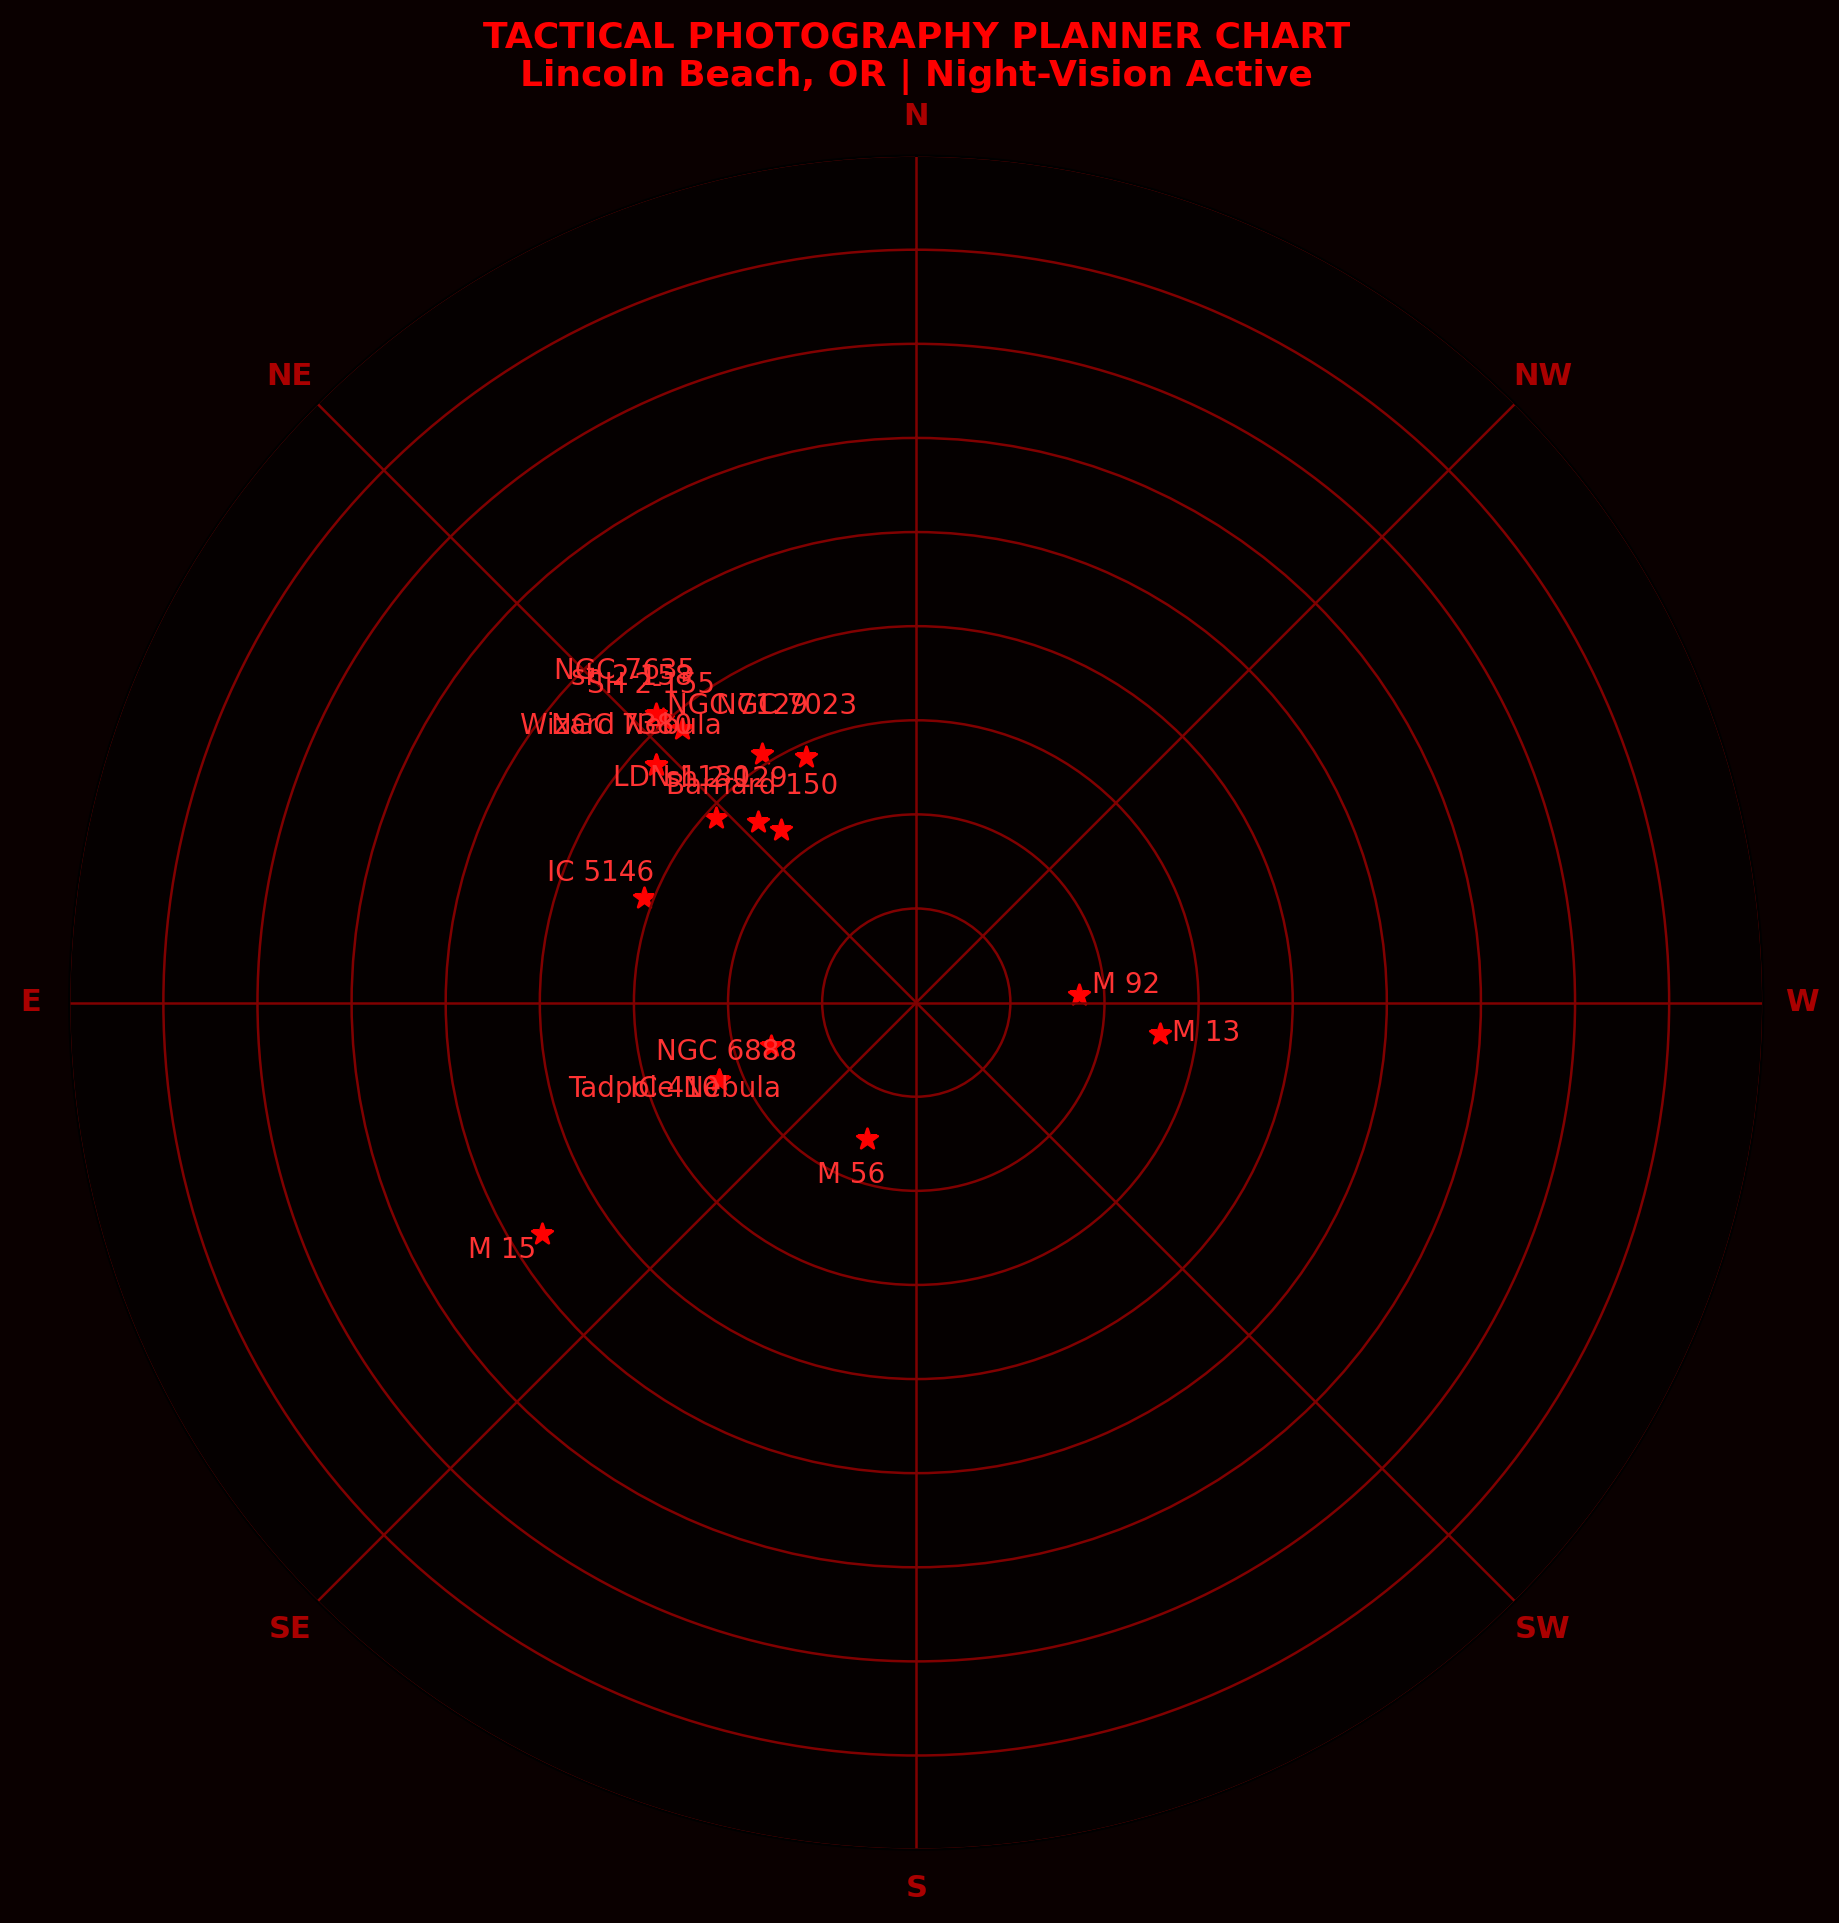
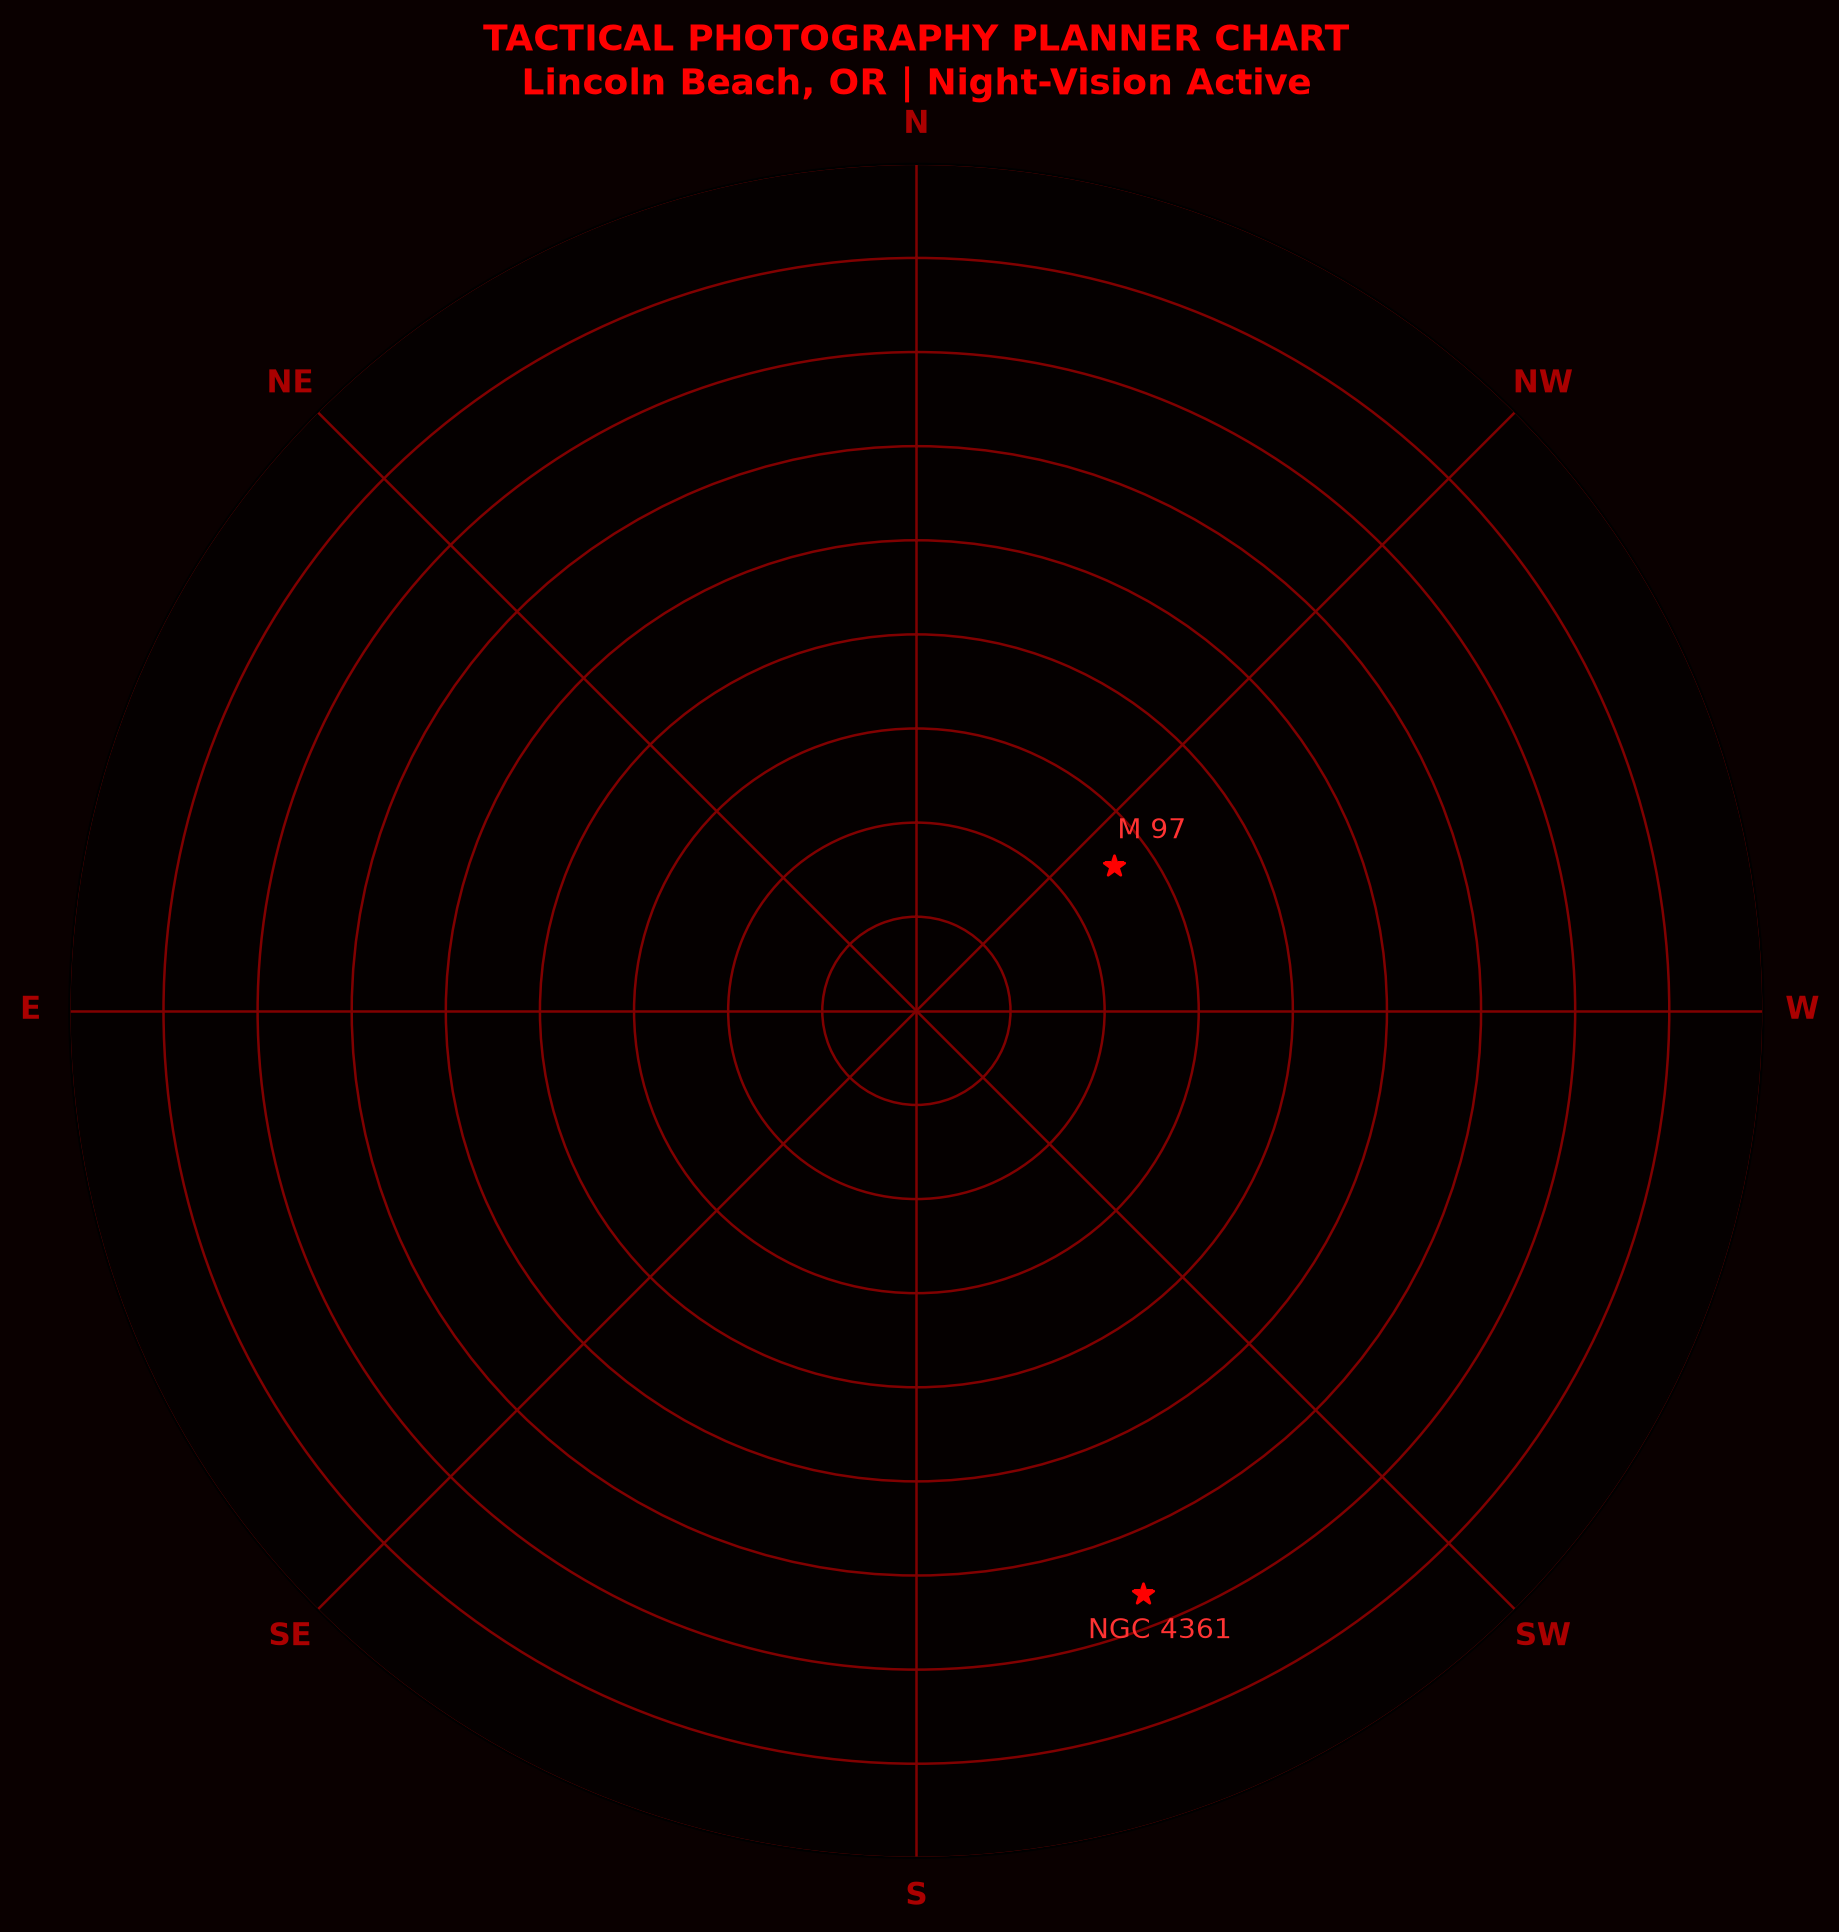
Add files via upload

diff --git a/static/style.css b/static/style.css
@@ -216,27 +216,40 @@ label {
     width: 150px;
     cursor: pointer;
 }
-
+/* 1. Base Modal Background Layout */
 .modal {
-    display: none; /* Hidden by default */
+    display: none;
     position: fixed;
     z-index: 1000;
-    top: 0;
     left: 0;
+    top: 0;
     width: 100%;
     height: 100%;
-    background-color: rgba(0, 0, 0, 0.8); /* Black background with opacity */
+    background-color: rgba(0, 0, 0, 0.9);
     justify-content: center;
     align-items: center;
-    margin: 0;
-    padding: 0;
 }
 
+/* 2. Base Modal Image Sizing Rules (DO NOT DEFINE BORDER COLOR HERE) */
 .modal-content {
-    max-width: 100vw;
-    max-height: 100vh;
-    max-width: none !important;
-    max-height: none !important;
+    width: 100%;
+    height: 100%;
+    max-width: 90vw;
+    max-height: 90vh;
     object-fit: contain;
-    image-rednering: auto;
+    box-sizing: border-box;
+    border-width: 5px;
+    border-style: solid;
+    border-radius: 4px;
+    box-shadow: 0 4px 20px rgba(0,0,0,0.5);
+    /* No border-color here to avoid default locking values */
+}
+
+/* 3. Utility Border Color Modifiers */
+.border-green {
+    border-color: #2ecc71 !important; /* !important guarantees this wins over duplicates */
+}
+
+.border-red {
+    border-color: #e74c3c !important;  /* !important guarantees this wins over duplicates */
 }
